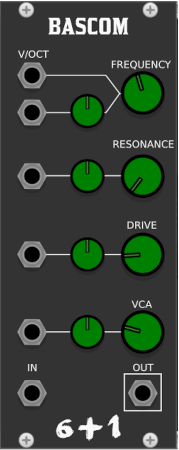
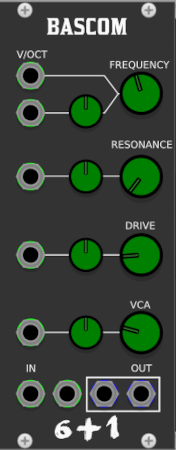
Bascom second inpiutm and output, allowing monophonic stereo

diff --git a/src/composites/Bascom.h b/src/composites/Bascom.h
@@ -133,12 +133,14 @@ public:
         MAIN_INPUT,
         FREQ_CV_INPUT,
         VCA_CV_INPUT,
+        RIGHT_INPUT,
         NUM_INPUTS
     };
 
     enum OutputIds
     {
         MAIN_OUTPUT,
+        RIGHT_OUTPUT,
         NUM_OUTPUTS
     };
 
@@ -185,6 +187,8 @@ inline void BascomComp<TBase>::step()
     auto noise = float_4 (1e-3f * (2.0f * sspo::AudioMath::rand01() - 1.0f));
     freqParam = freqParam * 10.0f - 5.0f;
 
+    auto rightOut = 0.0f;
+
     for (auto c = 0; c < channels; c += 4)
     {
         auto vcaGain = float_4 (vcaParam);
@@ -194,6 +198,10 @@ inline void BascomComp<TBase>::step()
         }
 
         auto in = TBase::inputs[MAIN_INPUT].template getPolyVoltageSimd<float_4> (c);
+
+       // copy right input to poly channel 1
+       in[1] = simd::ifelse(c == 0 && TBase::inputs[RIGHT_INPUT].isConnected(),
+                              TBase::inputs[RIGHT_INPUT].getVoltage(), in[1]);
         // Add -120dB noise to bootstrap self-oscillation
         in += noise;
 
@@ -285,10 +293,14 @@ inline void BascomComp<TBase>::step()
 
         out *= vcaGain;
         //simd'ed out = std::isfinite (out) ? out : 0;
-        out = rack::simd::ifelse((movemask(out == out) != 0xF)  , float_4(0.0f), out);
+        out = rack::simd::ifelse ((movemask (out == out) != 0xF), float_4 (0.0f), out);
 
         TBase::outputs[MAIN_OUTPUT].setVoltageSimd (out, c);
+
+        rightOut = simd::ifelse (c == 0, out[1], rightOut);
     }
+    TBase::outputs[RIGHT_OUTPUT].setVoltage (rightOut);
+    TBase::outputs[RIGHT_OUTPUT].setChannels (TBase::inputs[RIGHT_INPUT].isConnected());
     TBase::outputs[MAIN_OUTPUT].setChannels (channels);
 }
 
@@ -301,8 +313,6 @@ int BascomDescription<TBase>::getNumParams()
 template <class TBase>
 IComposite::Config BascomDescription<TBase>::getParam (int i)
 {
-
-
     auto freqBase = static_cast<float> (std::pow (2, 10.0f));
     auto freqMul = static_cast<float> (dsp::FREQ_C4 / std::pow (2, 5.f));
     IComposite::Config ret = { 0.0f, 1.0f, 0.0f, "Code type", "unit", 0.0f, 1.0f, 0.0f };

diff --git a/src/modules/Bascom.cpp b/src/modules/Bascom.cpp
@@ -99,10 +99,12 @@ struct BascomWidget : ModuleWidget
         addInput (createInputCentered<sspo::PJ301MPort> (mm2px (Vec (9.26, 47.802 + 2.5)), module, Comp::RESONANCE_CV_INPUT));
         addInput (createInputCentered<sspo::PJ301MPort> (mm2px (Vec (9.26, 70.292 + 2.5)), module, Comp::DRIVE_CV_INPUT));
         addInput (createInputCentered<sspo::PJ301MPort> (mm2px (Vec (9.26, 112.625)), module, Comp::MAIN_INPUT));
+        addInput (createInputCentered<sspo::PJ301MPort> (mm2px (Vec (19.74, 112.625)), module, Comp::RIGHT_INPUT));
         addInput (createInputCentered<sspo::PJ301MPort> (mm2px (Vec (9.26, 29.50 + 2.5)), module, Comp::FREQ_CV_INPUT));
         addInput (createInputCentered<sspo::PJ301MPort> (mm2px (Vec (9.26, 95.082 )), module, Comp::VCA_CV_INPUT));
 
-        addOutput (createOutputCentered<sspo::PJ301MPort> (mm2px (Vec (41.01, 112.625)), module, Comp::MAIN_OUTPUT));
+        addOutput (createOutputCentered<sspo::PJ301MPort> (mm2px (Vec (30.41, 112.625)), module, Comp::MAIN_OUTPUT));
+        addOutput (createOutputCentered<sspo::PJ301MPort> (mm2px (Vec (41.01, 112.625)), module, Comp::RIGHT_OUTPUT));
 
         if (module)
         {
@@ -110,10 +112,12 @@ struct BascomWidget : ModuleWidget
             module->configInput(Comp::RESONANCE_CV_INPUT, "Resonance");
             module->configInput(Comp::DRIVE_CV_INPUT, "Drive");
             module->configInput(Comp::MAIN_INPUT, "Main");
+            module->configOutput(Comp::RIGHT_OUTPUT, "Right");
             module->configInput(Comp::FREQ_CV_INPUT, "Freq");
             module->configInput(Comp::VCA_CV_INPUT, "Gain");
 
             module->configOutput(Comp::MAIN_OUTPUT, "Main");
+            module->configOutput(Comp::MAIN_OUTPUT, "Right");
         }
     }
 };

diff --git a/README.md b/README.md
@@ -319,7 +319,7 @@ The fm input can be supplied an audio signal, with controllable depth. There are
 
 A performance filter, with analog sampled Non linear distortions at every stage.
 
-Having spent the last 18 months building a DIY modular, I wanted to bring so of 
+Having spent the last 18 months building a DIY modular, I wanted to bring some of 
 the analog world to my modules. One of the big differences I noticed was the additional 
 character caused by the inaccuracies. In the physical world all cores of a filter may 
 have slightly different tunings and gaines, caused by component tolerance and age. 
@@ -329,6 +329,9 @@ various analog circuits.
 To keep the UI simple, Bascom has limited controls, with a library of presets covering
 various modes and colourings. If you wish to dig deeper and design your own filter model, 
 then Bascom Expander 
+
+A note on stereo, only the left input is polyphonic, with the right input copied to the
+second channel
 
 ### BascomExpander
 

diff --git a/CHANGELOG.md b/CHANGELOG.md
@@ -49,5 +49,11 @@ Added Iverson and Iverson Jr
   ### v1.4 
   - Hula, small fm oscillator with small random, detune, initial release
   
- 
+### v2.0.1
+ - The update
+ - Amburgh filter
+
+### v2.1.0
+ - Bascom Ladder filter designer
+ - 
 
